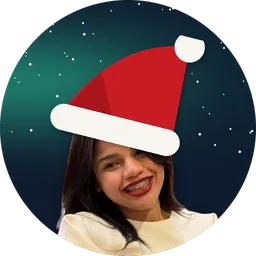
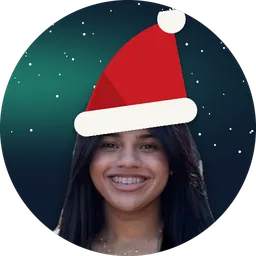
Crew: new Iandra photo, straight hat
Claude-Session: https://claude.ai/code/session_01JoaB8o3qgrpRZdHKzhpShd

diff --git a/sw.js b/sw.js
@@ -1,4 +1,4 @@
-var CACHE='lapland-v4';
+var CACHE='lapland-v5';
 var SHELL=['/','/index.html','/manifest.json','/icons/icon-192.png','/icons/icon-512.png','/icons/apple-touch-icon.png','/crew/nick.webp','/crew/iandra.webp','/crew/herma.webp','/crew/marco.webp','/crew/kevin.webp','/crew/dana.webp'];
 self.addEventListener('install',function(e){e.waitUntil(caches.open(CACHE).then(function(c){return c.addAll(SHELL);}).then(function(){return self.skipWaiting();}));});
 self.addEventListener('activate',function(e){e.waitUntil(caches.keys().then(function(ks){return Promise.all(ks.filter(function(k){return k!==CACHE;}).map(function(k){return caches.delete(k);}));}).then(function(){return self.clients.claim();}));});
